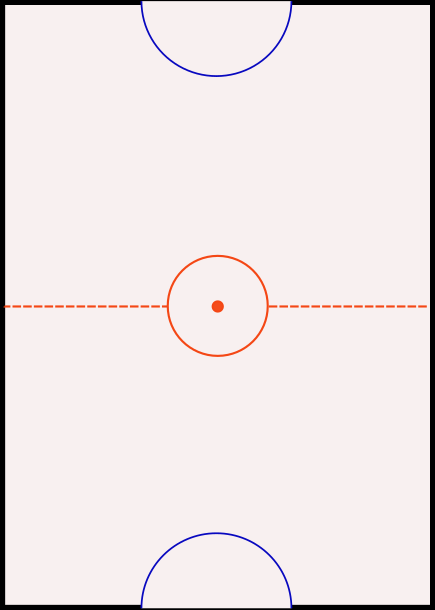
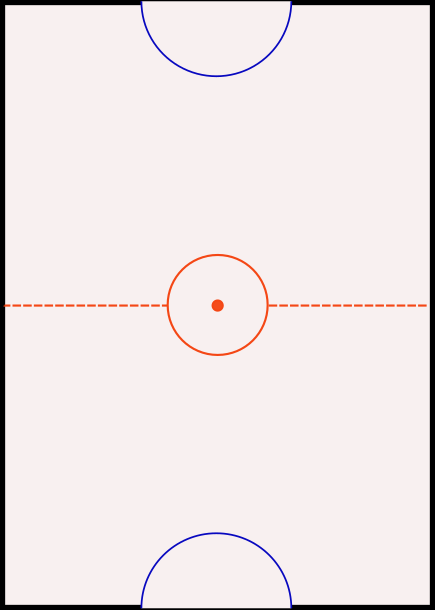
Removing old field image
[DESCRIPTION]
Old field image removed, new image renamed and updated in constants.py

[TODO]
Implement scoring; Add different screens, sound effects, multiplayer implementation, ai implementation; Add logger; Add debug player

[BUGS]
Puck goes outside of the field; Paddle overlaps puck when in the corner of the field; Puck sticking with paddle still present

diff --git a/common/constants.py b/common/constants.py
@@ -49,7 +49,7 @@ class GameConstants:
     FOLDER_IMAGES = 'images'
     FOLDER_SOUNDS = 'sounds'
 
-    IMAGE_FIELD = os.path.join(FOLDER_ASSETS, FOLDER_IMAGES, 'field1.png')
+    IMAGE_FIELD = os.path.join(FOLDER_ASSETS, FOLDER_IMAGES, 'field.png')
     IMAGE_PADDLE = os.path.join(FOLDER_ASSETS, FOLDER_IMAGES, 'paddle.png')
     IMAGE_PUCK = os.path.join(FOLDER_ASSETS, FOLDER_IMAGES, 'puck.png')
 
